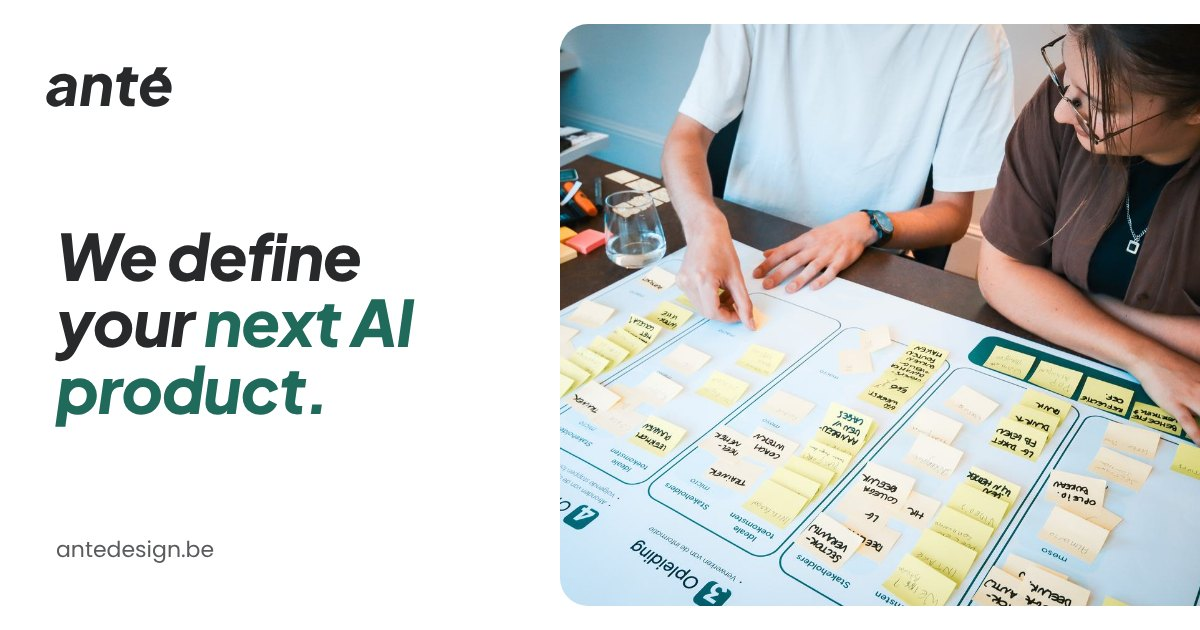
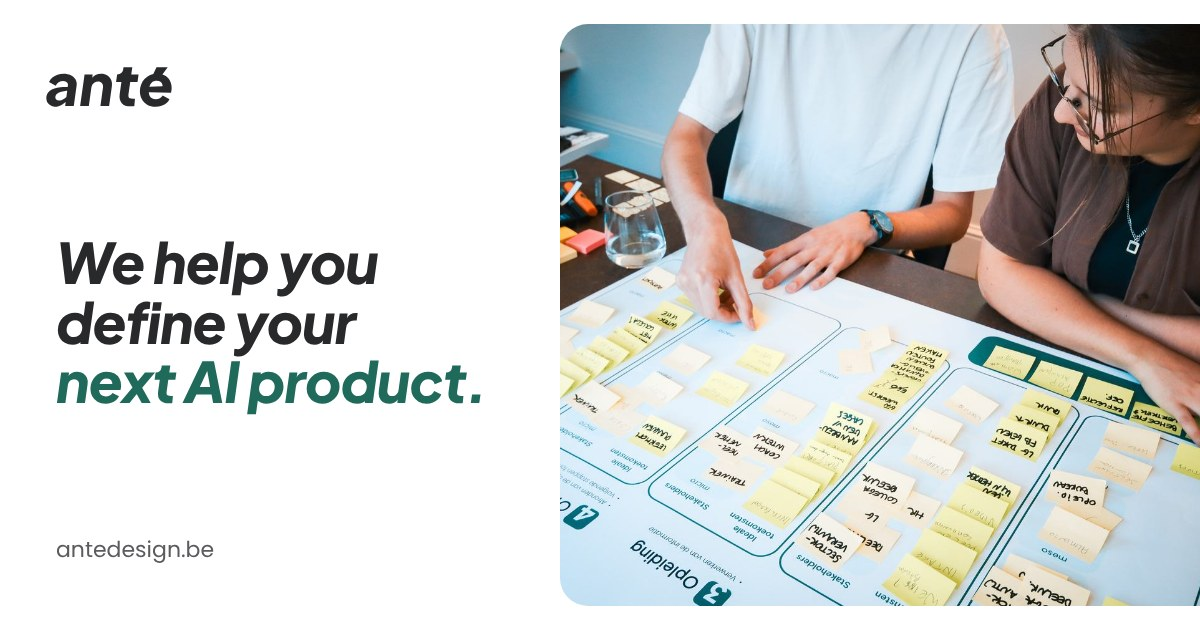
Kop: "We help you define your next AI product."
"We define" leest alsof Anté beslist wat het product wordt. Het gebeurt samen
met de klant en wij begeleiden dat. De kop, tabtitel, meta en JSON-LD van de
home, de deelafbeelding (opnieuw gemaakt), de alt-teksten op alle pagina's,
llms.txt, de bedrijfsomschrijving ("helps companies define products with AI at
their core") en de zinnen op About, Cases, Privacy en de beslisboom op Approach
volgen mee. De kop is iets kleiner op brede schermen zodat de langere zin
gecentreerd blijft, en de groene woorden breken niet meer over twee regels.

Claude-Session: https://claude.ai/code/session_01TuqHyv5DTpPFk2rfpgRrqL

Changed region(s): [[0.0308, 0.3619, 0.4008, 0.6937]]

diff --git a/index.html b/index.html
@@ -3,23 +3,23 @@
 <head>
   <meta charset="UTF-8">
   <meta name="viewport" content="width=device-width, initial-scale=1.0">
-  <title>Anté | We define your next AI product</title>
-  <meta name="description" content="Anté defines your next AI product with your whole team: who it is for, what it does, what role AI plays and what comes first, before you spend on development.">
+  <title>Anté | We help you define your next AI product</title>
+  <meta name="description" content="Anté helps you define your next AI product with your team: who it is for, what it does, what role AI plays and what comes first, before you pay for development.">
   <link rel="canonical" href="https://antedesign.be/">
   <meta property="og:locale" content="en_GB">
   <meta name="twitter:card" content="summary_large_image">
-  <meta name="twitter:title" content="Anté | We define your next AI product">
-  <meta name="twitter:description" content="Anté defines your next AI product with your whole team: who it is for, what it does, what role AI plays and what comes first, before you spend on development.">
+  <meta name="twitter:title" content="Anté | We help you define your next AI product">
+  <meta name="twitter:description" content="Anté helps you define your next AI product with your team: who it is for, what it does, what role AI plays and what comes first, before you pay for development.">
   <meta name="twitter:image" content="https://antedesign.be/assets/images/og-default.jpg">
   <meta property="og:type" content="website">
   <meta property="og:site_name" content="Anté">
-  <meta property="og:title" content="Anté | We define your next AI product">
-  <meta property="og:description" content="Anté defines your next AI product with your whole team: who it is for, what it does, what role AI plays and what comes first, before you spend on development.">
+  <meta property="og:title" content="Anté | We help you define your next AI product">
+  <meta property="og:description" content="Anté helps you define your next AI product with your team: who it is for, what it does, what role AI plays and what comes first, before you pay for development.">
   <meta property="og:url" content="https://antedesign.be/">
   <meta property="og:image" content="https://antedesign.be/assets/images/og-default.jpg">
   <meta property="og:image:width" content="1200">
   <meta property="og:image:height" content="630">
-  <meta property="og:image:alt" content="We define your next AI product. Anté logo beside a workshop photo with sticky notes on a printed canvas.">
+  <meta property="og:image:alt" content="We help you define your next AI product. Anté logo beside a workshop photo with sticky notes on a printed canvas.">
   <link rel="preconnect" href="https://fonts.googleapis.com">
   <link rel="preconnect" href="https://fonts.gstatic.com" crossorigin>
   <link href="https://fonts.googleapis.com/css2?family=JetBrains+Mono:wght@500&family=Plus+Jakarta+Sans:ital,wght@1,800&family=Poppins:wght@400;500;600&display=swap" rel="stylesheet">
@@ -49,7 +49,7 @@
         "height": 2000
       },
       "image": "https://antedesign.be/assets/images/og-default.jpg",
-      "description": "Anté is an independent studio that defines products with AI at their core, before they are built. Three services: AI Opportunity Exploration, AI Product Definition, Prototype & Validation.",
+      "description": "Anté is an independent studio that helps companies define products with AI at their core, before they are built. Three services: AI Opportunity Exploration, AI Product Definition, Prototype & Validation.",
       "slogan": "Decide before you build.",
       "email": "hello@antedesign.be",
       "identifier": {
@@ -149,7 +149,7 @@
   <!-- ── Section 1: Hero ──────────────────────────────────── -->
   <section class="hero hero--centered">
     <div class="container">
-      <h1 class="hero-headline hero-headline--pair reveal"><span class="hl-line">We define your <span class="text-spruce">next AI product.</span></span></h1>
+      <h1 class="hero-headline hero-headline--pair reveal"><span class="hl-line">We help you define your <span class="text-spruce">next AI product.</span></span></h1>
       <p class="hero-subhead reveal">You know AI should be part of what you make next, but not what that is yet. We help you shape exactly what your product should be, before you spend time and money on development.</p>
       <div class="btn-group reveal">
         <a href="/contact/" class="btn-primary">Book a 30-minute call</a>

diff --git a/terms/index.html b/terms/index.html
@@ -4,21 +4,21 @@
   <meta charset="UTF-8">
   <meta name="viewport" content="width=device-width, initial-scale=1.0">
   <title>Terms of Service | Anté</title>
-  <meta name="description" content="The terms of service of antedesign.be, the website of Anté, an independent studio that defines products with AI at their core.">
+  <meta name="description" content="The terms of service of antedesign.be, the website of Anté, an independent studio that helps companies define products with AI at their core.">
   <link rel="canonical" href="https://antedesign.be/terms/">
   <meta property="og:type" content="website">
   <meta property="og:site_name" content="Anté">
   <meta property="og:locale" content="en_GB">
   <meta property="og:title" content="Terms of Service | Anté">
-  <meta property="og:description" content="The terms of service of antedesign.be, the website of Anté, an independent studio that defines products with AI at their core.">
+  <meta property="og:description" content="The terms of service of antedesign.be, the website of Anté, an independent studio that helps companies define products with AI at their core.">
   <meta property="og:url" content="https://antedesign.be/terms/">
   <meta property="og:image" content="https://antedesign.be/assets/images/og-default.jpg">
   <meta property="og:image:width" content="1200">
   <meta property="og:image:height" content="630">
-  <meta property="og:image:alt" content="We define your next AI product. Anté logo beside a workshop photo with sticky notes on a printed canvas.">
+  <meta property="og:image:alt" content="We help you define your next AI product. Anté logo beside a workshop photo with sticky notes on a printed canvas.">
   <meta name="twitter:card" content="summary_large_image">
   <meta name="twitter:title" content="Terms of Service | Anté">
-  <meta name="twitter:description" content="The terms of service of antedesign.be, the website of Anté, an independent studio that defines products with AI at their core.">
+  <meta name="twitter:description" content="The terms of service of antedesign.be, the website of Anté, an independent studio that helps companies define products with AI at their core.">
   <meta name="twitter:image" content="https://antedesign.be/assets/images/og-default.jpg">
   <link rel="preconnect" href="https://fonts.googleapis.com">
   <link rel="preconnect" href="https://fonts.gstatic.com" crossorigin>

diff --git a/cookies/index.html b/cookies/index.html
@@ -4,21 +4,21 @@
   <meta charset="UTF-8">
   <meta name="viewport" content="width=device-width, initial-scale=1.0">
   <title>Cookie Policy | Anté</title>
-  <meta name="description" content="The cookie policy of antedesign.be, the website of Anté, an independent studio that defines products with AI at their core.">
+  <meta name="description" content="The cookie policy of antedesign.be, the website of Anté, an independent studio that helps companies define products with AI at their core.">
   <link rel="canonical" href="https://antedesign.be/cookies/">
   <meta property="og:type" content="website">
   <meta property="og:site_name" content="Anté">
   <meta property="og:locale" content="en_GB">
   <meta property="og:title" content="Cookie Policy | Anté">
-  <meta property="og:description" content="The cookie policy of antedesign.be, the website of Anté, an independent studio that defines products with AI at their core.">
+  <meta property="og:description" content="The cookie policy of antedesign.be, the website of Anté, an independent studio that helps companies define products with AI at their core.">
   <meta property="og:url" content="https://antedesign.be/cookies/">
   <meta property="og:image" content="https://antedesign.be/assets/images/og-default.jpg">
   <meta property="og:image:width" content="1200">
   <meta property="og:image:height" content="630">
-  <meta property="og:image:alt" content="We define your next AI product. Anté logo beside a workshop photo with sticky notes on a printed canvas.">
+  <meta property="og:image:alt" content="We help you define your next AI product. Anté logo beside a workshop photo with sticky notes on a printed canvas.">
   <meta name="twitter:card" content="summary_large_image">
   <meta name="twitter:title" content="Cookie Policy | Anté">
-  <meta name="twitter:description" content="The cookie policy of antedesign.be, the website of Anté, an independent studio that defines products with AI at their core.">
+  <meta name="twitter:description" content="The cookie policy of antedesign.be, the website of Anté, an independent studio that helps companies define products with AI at their core.">
   <meta name="twitter:image" content="https://antedesign.be/assets/images/og-default.jpg">
   <link rel="preconnect" href="https://fonts.googleapis.com">
   <link rel="preconnect" href="https://fonts.gstatic.com" crossorigin>

diff --git a/privacy/index.html b/privacy/index.html
@@ -15,7 +15,7 @@
   <meta property="og:image" content="https://antedesign.be/assets/images/og-default.jpg">
   <meta property="og:image:width" content="1200">
   <meta property="og:image:height" content="630">
-  <meta property="og:image:alt" content="We define your next AI product. Anté logo beside a workshop photo with sticky notes on a printed canvas.">
+  <meta property="og:image:alt" content="We help you define your next AI product. Anté logo beside a workshop photo with sticky notes on a printed canvas.">
   <meta name="twitter:card" content="summary_large_image">
   <meta name="twitter:title" content="Privacy Policy | Anté">
   <meta name="twitter:description" content="How Anté handles your data on antedesign.be, including what happens to your answers in the AI Product Check.">
@@ -80,7 +80,7 @@
   <section class="section section--snug">
     <div class="container">
       <h2 class="reveal">Who we are</h2>
-      <p class="reveal">Anté VOF, trading as Anté, company number BE 1041.127.724, with its registered office in Oud-Turnhout, Belgium. We define products with AI at their core before they are built. For anything about your data, write to <a href="mailto:hello@antedesign.be">hello@antedesign.be</a>.</p>
+      <p class="reveal">Anté VOF, trading as Anté, company number BE 1041.127.724, with its registered office in Oud-Turnhout, Belgium. We help companies define products with AI at their core before they are built. For anything about your data, write to <a href="mailto:hello@antedesign.be">hello@antedesign.be</a>.</p>
 
       <h2 class="reveal">What we collect, and why</h2>
       <p class="reveal"><strong>When you contact us or book a call:</strong> your name, your email address and what you tell us. We use it to answer you and to prepare the conversation. A message you send through the contact form reaches our mailbox as an email, sent from Anté&rsquo;s Google account.</p>

diff --git a/cases/index.html b/cases/index.html
@@ -19,7 +19,7 @@
   <meta property="og:image" content="https://antedesign.be/assets/images/og-default.jpg">
   <meta property="og:image:width" content="1200">
   <meta property="og:image:height" content="630">
-  <meta property="og:image:alt" content="We define your next AI product. Anté logo beside a workshop photo with sticky notes on a printed canvas.">
+  <meta property="og:image:alt" content="We help you define your next AI product. Anté logo beside a workshop photo with sticky notes on a printed canvas.">
   <link rel="preconnect" href="https://fonts.googleapis.com">
   <link rel="preconnect" href="https://fonts.gstatic.com" crossorigin>
   <link href="https://fonts.googleapis.com/css2?family=JetBrains+Mono:wght@500&family=Plus+Jakarta+Sans:ital,wght@1,800&family=Poppins:wght@400;500;600&display=swap" rel="stylesheet">
@@ -93,7 +93,7 @@
         <div class="card reveal">
           <span class="founder-role">Digital product · Training</span>
           <h4>Novare: an AI tool for learning transfer</h4>
-          <p>Novare runs training programmes and wanted an AI tool to help people apply what they learn back at work. That asks for a different design than a regular product or learning platform. We defined what the tool does, for whom, and what goes in and what stays out.</p>
+          <p>Novare runs training programmes and wanted an AI tool to help people apply what they learn back at work. That asks for a different design than a regular product or learning platform. Together we defined what the tool does, for whom, and what goes in and what stays out.</p>
         </div>
 
       </div>

diff --git a/about/index.html b/about/index.html
@@ -116,7 +116,7 @@
     <div class="container">
       <h1 class="hero-headline hero-headline--inner reveal"><span class="text-spruce">Why</span> Anté exists.</h1>
       <p class="hero-body reveal">We kept seeing the same problems. Companies wanted AI at the core of their next product, but nobody could say what that product should be. Everyone on the team saw something different. Nobody in-house knew how to design a product around AI.</p>
-      <p class="hero-body reveal">We wanted to solve that. So we combine AI knowledge with product development: we define the product before anyone builds it.</p>
+      <p class="hero-body reveal">We wanted to solve that. So we combine AI knowledge with product development: we help you define the product before anyone builds it.</p>
     </div>
   </section>
 
@@ -152,7 +152,7 @@
           </div>
           <h3 class="founder-name">Margot Barajas Colpaert</h3>
           <span class="founder-role">Strategic Designer</span>
-          <p>Margot brings expertise in service design and strategic design. She looks past the product itself, at the service around it and the choices behind it, so that what we define fits how a company really works and where it wants to go.</p>
+          <p>Margot brings expertise in service design and strategic design. She looks past the product itself, at the service around it and the choices behind it, so that what we define together fits how a company really works and where it wants to go.</p>
         </div>
 
       </div>

diff --git a/insights/icm-starter-kit/index.html b/insights/icm-starter-kit/index.html
@@ -514,7 +514,7 @@ Doe een audit van deze werkruimte zonder een bestand te wijzigen. Zeg me: welke 
               <div class="author-mark"><span>a</span></div>
               <div>
                 <h4>Anté</h4>
-                <p lang="en">An independent studio in Antwerp that defines products with AI at their core before they are built. We build prototypes to test an idea, never the final product, and we take no stake in what you decide, which is the only reason our answer on direction is worth anything. Decide before you build.</p>
+                <p lang="en">An independent studio in Antwerp that helps companies define products with AI at their core before they are built. We build prototypes to test an idea, never the final product, and we take no stake in what you decide, which is the only reason our answer on direction is worth anything. Decide before you build.</p>
                 <p lang="nl">Een onafhankelijke studio in Antwerpen die producten met AI als kern definieert voor ze gebouwd worden. Wij bouwen prototypes om een idee te testen, nooit het eindproduct, en nemen geen belang in wat je beslist, en dat is de enige reden waarom ons antwoord over richting iets waard is. Beslis voor je bouwt.</p>
               </div>
             </div>

diff --git a/assets/js/tree.js b/assets/js/tree.js
@@ -13,7 +13,7 @@
 
   var OUT = {
     exploration: ['Start with an AI Opportunity Exploration.', 'In two weeks we map where AI can add value, and tell you which idea is worth pursuing, or that it is better to do nothing.'],
-    definition: ['Start with an AI Product Definition.', 'You have the idea. We define what the product does, for whom, what role AI plays and which features come first, so you can brief a builder.'],
+    definition: ['Start with an AI Product Definition.', 'You have the idea. We help you define what the product does, for whom, what role AI plays and which features come first, so you can brief a builder.'],
     prototype: ['Start with Prototype & Validation.', 'You know what to build. Put a first version in front of real users and measure early traction, before the full build.'],
     ready: ['You may be ready to build.', 'You know what to build, and users have seen it. If you want a second look before you commit, the review call is free.']
   };

diff --git a/insights/double-diamond-design-process/index.html b/insights/double-diamond-design-process/index.html
@@ -507,7 +507,7 @@ Be specific and direct. Where I have given you too little to judge something, sa
               <div class="author-mark"><span>a</span></div>
               <div>
                 <h4>Anté</h4>
-                <p>An independent studio in Antwerp that defines products with AI at their core before they are built. We build prototypes to test an idea, never the final product, and we take no stake in what you decide, which is the only reason our answer on direction is worth anything. Decide before you build.</p>
+                <p>An independent studio in Antwerp that helps companies define products with AI at their core before they are built. We build prototypes to test an idea, never the final product, and we take no stake in what you decide, which is the only reason our answer on direction is worth anything. Decide before you build.</p>
               </div>
             </div>
 

diff --git a/tools/333-idea-generation-toolkit/index.html b/tools/333-idea-generation-toolkit/index.html
@@ -17,7 +17,7 @@
 <meta property="og:image" content="https://antedesign.be/assets/images/og-default.jpg">
 <meta property="og:image:width" content="1200">
 <meta property="og:image:height" content="630">
-<meta property="og:image:alt" content="We define your next AI product. Anté logo beside a workshop photo with sticky notes on a printed canvas.">
+<meta property="og:image:alt" content="We help you define your next AI product. Anté logo beside a workshop photo with sticky notes on a printed canvas.">
 <meta name="twitter:card" content="summary_large_image">
 <meta name="twitter:title" content="The Idea Generation Toolkit | Anté">
 <meta name="twitter:description" content="Stop falling in love with your first idea. A toolkit to generate more, better directions and compare them with a clear head. By Anté. Decide before you build.">

diff --git a/approach/index.html b/approach/index.html
@@ -19,7 +19,7 @@
   <meta property="og:image" content="https://antedesign.be/assets/images/og-default.jpg">
   <meta property="og:image:width" content="1200">
   <meta property="og:image:height" content="630">
-  <meta property="og:image:alt" content="We define your next AI product. Anté logo beside a workshop photo with sticky notes on a printed canvas.">
+  <meta property="og:image:alt" content="We help you define your next AI product. Anté logo beside a workshop photo with sticky notes on a printed canvas.">
   <link rel="preconnect" href="https://fonts.googleapis.com">
   <link rel="preconnect" href="https://fonts.gstatic.com" crossorigin>
   <link href="https://fonts.googleapis.com/css2?family=JetBrains+Mono:wght@500&family=Plus+Jakarta+Sans:ital,wght@1,800&family=Poppins:wght@400;500;600&display=swap" rel="stylesheet">

diff --git a/contact/index.html b/contact/index.html
@@ -19,7 +19,7 @@
   <meta property="og:image" content="https://antedesign.be/assets/images/og-default.jpg">
   <meta property="og:image:width" content="1200">
   <meta property="og:image:height" content="630">
-  <meta property="og:image:alt" content="We define your next AI product. Anté logo beside a workshop photo with sticky notes on a printed canvas.">
+  <meta property="og:image:alt" content="We help you define your next AI product. Anté logo beside a workshop photo with sticky notes on a printed canvas.">
   <link rel="preconnect" href="https://fonts.googleapis.com">
   <link rel="preconnect" href="https://fonts.gstatic.com" crossorigin>
   <link href="https://fonts.googleapis.com/css2?family=JetBrains+Mono:wght@500&family=Plus+Jakarta+Sans:ital,wght@1,800&family=Poppins:wght@400;500;600&display=swap" rel="stylesheet">
